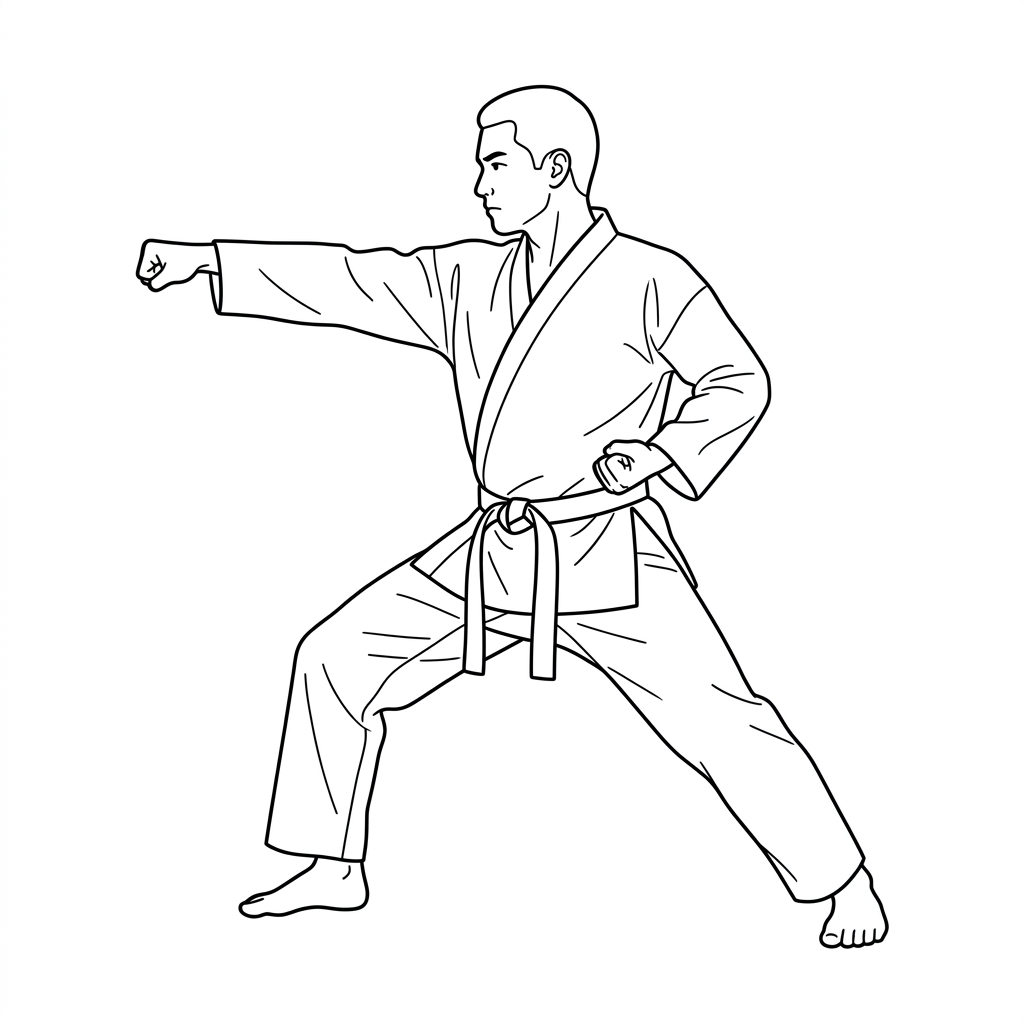
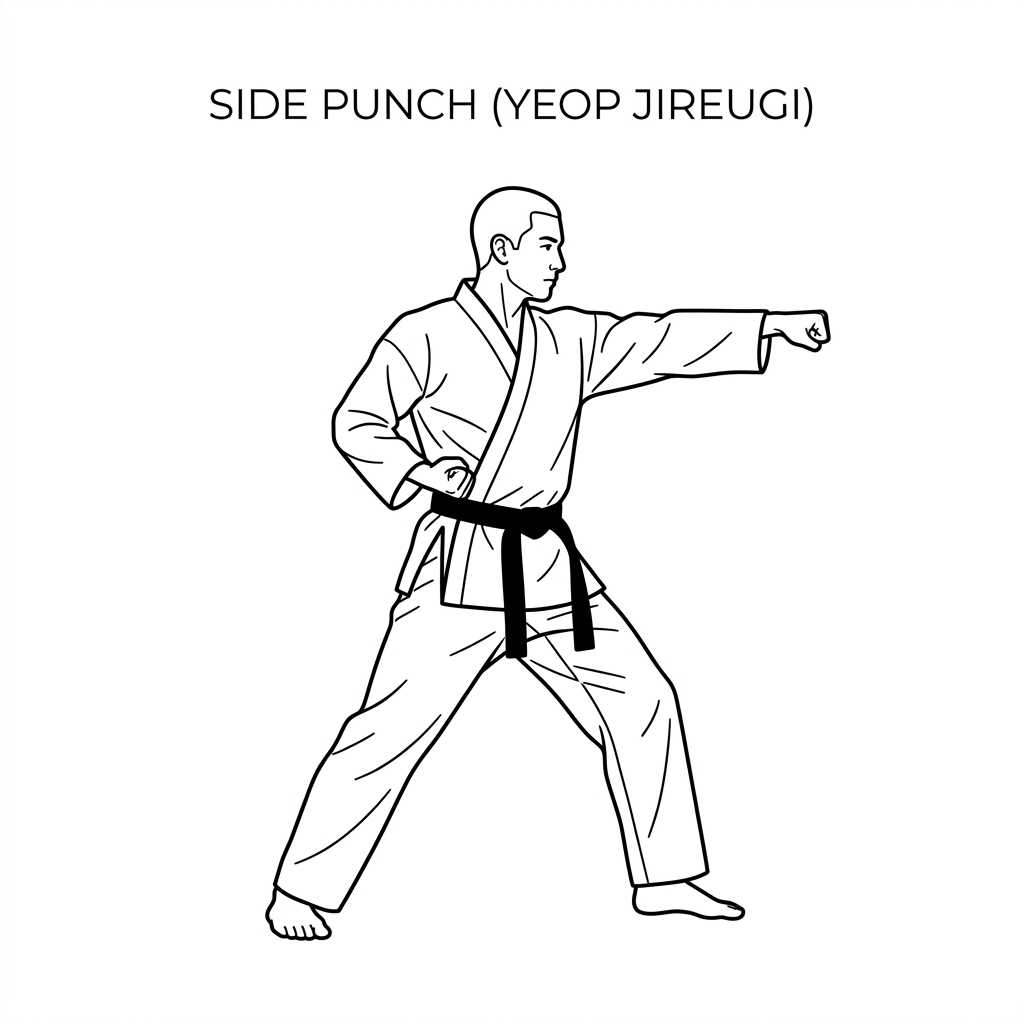
feat(media): add 14 new technical illustrations for Hapkido strikes, stances, forms, and martial terminology

diff --git a/index.html b/index.html
@@ -2827,18 +2827,18 @@
     </div>
 
     <!-- Hapkido App Modules -->
-    <script src="app.js?v=20260901-13"></script>
-    <script src="hapkido-data.js?v=20260901-13"></script>
-    <script src="hapkido-auth.js?v=20260901-13"></script>
-    <script src="hapkido-athletes.js?v=20260901-13"></script>
-    <script src="hapkido-physical.js?v=20260901-13"></script>
-    <script src="hapkido-exams.js?v=20260901-13"></script>
-    <script src="hapkido-combat.js?v=20260901-13"></script>
-    <script src="hapkido-schools.js?v=20260901-13"></script>
-    <script src="hapkido-torneos.js?v=20260901-13"></script>
-    <script src="hapkido-vocab.js?v=20260901-13"></script>
-    <script src="hapkido-timer.js?v=20260901-13"></script>
-    <script src="hapkido-sync.js?v=20260901-13"></script>
-    <script src="hapkido-init.js?v=20260901-13"></script>
+    <script src="app.js?v=20260901-14"></script>
+    <script src="hapkido-data.js?v=20260901-14"></script>
+    <script src="hapkido-auth.js?v=20260901-14"></script>
+    <script src="hapkido-athletes.js?v=20260901-14"></script>
+    <script src="hapkido-physical.js?v=20260901-14"></script>
+    <script src="hapkido-exams.js?v=20260901-14"></script>
+    <script src="hapkido-combat.js?v=20260901-14"></script>
+    <script src="hapkido-schools.js?v=20260901-14"></script>
+    <script src="hapkido-torneos.js?v=20260901-14"></script>
+    <script src="hapkido-vocab.js?v=20260901-14"></script>
+    <script src="hapkido-timer.js?v=20260901-14"></script>
+    <script src="hapkido-sync.js?v=20260901-14"></script>
+    <script src="hapkido-init.js?v=20260901-14"></script>
 </body>
 </html>

diff --git a/sw.js b/sw.js
@@ -1,10 +1,10 @@
 /**
  * Service Worker: Hapkido Athlete Tracker PWA
- * Version: 20260901-13
+ * Version: 20260901-14
  * Strategy: Network-First for Application Code (Instant Updates), Cache-First for Static Assets (100% Offline Capable)
  */
 
-const CACHE_NAME = 'hapkido-tracker-v20260901-13';
+const CACHE_NAME = 'hapkido-tracker-v20260901-14';
 
 const CORE_ASSETS = [
   './',
